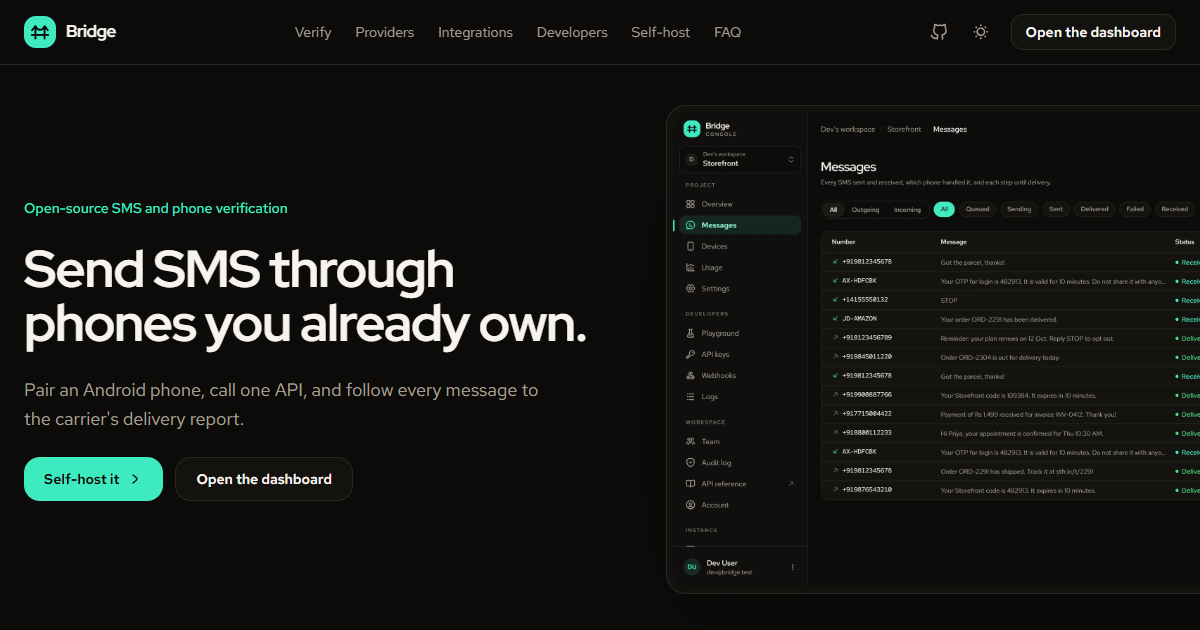
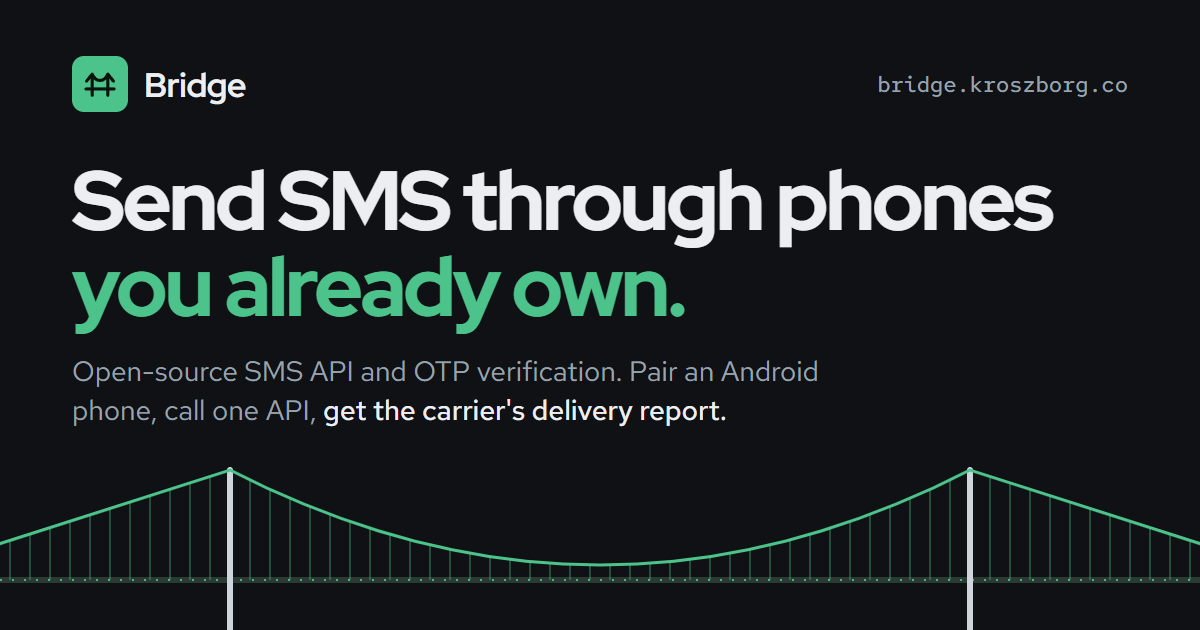
Link previews: new og image, per-page tags, dashboard previews
The preview image showed the old theme. Privacy and terms now preview as
themselves instead of the home page, docs canonicals carry the trailing
slash the static export serves, and the dashboard gets preview tags
(it reads BRIDGE_DASHBOARD_URL at runtime for absolute URLs). The favicon
and a new Apple touch icon use the current green.

diff --git a/apps/dashboard/src/app/layout.tsx b/apps/dashboard/src/app/layout.tsx
@@ -1,5 +1,6 @@
 import type { Metadata, Viewport } from 'next';
 import { Red_Hat_Display, Red_Hat_Mono, Red_Hat_Text } from 'next/font/google';
+import { connection } from 'next/server';
 import './globals.css';
 import { Providers } from '@/components/providers';
 import { Toaster } from '@/components/ui/sonner';
@@ -9,11 +10,33 @@ const display = Red_Hat_Display({ subsets: ['latin'], variable: '--font-redhat-d
 const text = Red_Hat_Text({ subsets: ['latin'], variable: '--font-redhat-text' });
 const mono = Red_Hat_Mono({ subsets: ['latin'], variable: '--font-redhat-mono' });
 
-export const metadata: Metadata = {
-  title: { default: 'Bridge', template: '%s · Bridge' },
-  description: 'Open-source infrastructure for SMS and phone verification.',
-  robots: { index: false, follow: false },
-};
+const description = 'Open-source infrastructure for SMS and phone verification.';
+
+// Link previews need absolute URLs, and the address is only known when the server runs.
+export async function generateMetadata(): Promise<Metadata> {
+  await connection();
+  const base = (process.env.BRIDGE_DASHBOARD_URL ?? 'http://localhost:3000').replace(/\/$/, '');
+  const image = {
+    url: '/og.png',
+    width: 1200,
+    height: 630,
+    alt: 'Bridge: send SMS through phones you already own',
+  };
+  return {
+    metadataBase: new URL(base),
+    title: { default: 'Bridge', template: '%s · Bridge' },
+    description,
+    robots: { index: false, follow: false },
+    openGraph: {
+      type: 'website',
+      siteName: 'Bridge',
+      title: 'Bridge',
+      description,
+      images: [image],
+    },
+    twitter: { card: 'summary_large_image', title: 'Bridge', description, images: [image.url] },
+  };
+}
 
 export const viewport: Viewport = {
   themeColor: [

diff --git a/apps/web/src/app/layout.tsx b/apps/web/src/app/layout.tsx
@@ -1,7 +1,7 @@
 import type { Metadata, Viewport } from 'next';
 import { Red_Hat_Display, Red_Hat_Mono, Red_Hat_Text } from 'next/font/google';
 import { ThemeProvider } from '@/components/theme';
-import { MAKER, SITE, SITE_URL } from '@/lib/site';
+import { MAKER, OG_IMAGE, SITE, SITE_URL } from '@/lib/site';
 import './globals.css';
 
 const display = Red_Hat_Display({ subsets: ['latin'], variable: '--font-redhat-display' });
@@ -34,23 +34,16 @@ export const metadata: Metadata = {
     siteName: SITE.name,
     title: SITE.title,
     description:
-      'Send SMS and one-time codes through Android phones you own, with delivery reports and signed webhooks. Open source and self-hosted.',
-    images: [
-      {
-        url: '/og.png',
-        width: 1200,
-        height: 630,
-        alt: 'Bridge: send SMS through phones you already own',
-      },
-    ],
+      'Send SMS and one-time codes through Android phones you own, with delivery reports and signed webhooks. Open source, hosted or self-hosted.',
+    images: [OG_IMAGE],
   },
   twitter: {
     card: 'summary_large_image',
     creator: MAKER.xHandle,
     title: SITE.title,
     description:
-      'Send SMS and one-time codes through Android phones you own. Open source and self-hosted.',
-    images: ['/og.png'],
+      'Send SMS and one-time codes through Android phones you own. Open source, hosted or self-hosted.',
+    images: [OG_IMAGE.url],
   },
   robots: { index: true, follow: true },
 };

diff --git a/apps/web/src/app/docs/[[...slug]]/page.tsx b/apps/web/src/app/docs/[[...slug]]/page.tsx
@@ -3,7 +3,8 @@ import type { Metadata } from 'next';
 import { notFound } from 'next/navigation';
 import { IntegrationsGrid } from '@/components/docs/integrations-grid';
 import { getMDXComponents } from '@/components/docs/mdx';
-import { MAKER, repoFile, SITE } from '@/lib/site';
+import { docsUrl } from '@/lib/docs/paths';
+import { pageMeta, repoFile } from '@/lib/site';
 import { source } from '@/lib/source';
 
 type Props = { params: Promise<{ slug?: string[] }> };
@@ -38,25 +39,5 @@ export async function generateMetadata({ params }: Props): Promise<Metadata> {
 
   const title =
     page.slugs.length === 0 ? 'Bridge documentation' : `${page.data.title} · Bridge docs`;
-  const { description } = page.data;
-  return {
-    title,
-    description,
-    alternates: { canonical: page.url },
-    openGraph: {
-      type: 'article',
-      url: page.url,
-      siteName: SITE.name,
-      title,
-      description,
-      images: [{ url: '/og.png', width: 1200, height: 630, alt: SITE.title }],
-    },
-    twitter: {
-      card: 'summary_large_image',
-      creator: MAKER.xHandle,
-      title,
-      description,
-      images: ['/og.png'],
-    },
-  };
+  return pageMeta({ title, description: page.data.description, path: docsUrl(page.slugs) });
 }

diff --git a/apps/web/src/lib/site.ts b/apps/web/src/lib/site.ts
@@ -1,3 +1,5 @@
+import type { Metadata } from 'next';
+
 /** Where the console lives. Set NEXT_PUBLIC_DASHBOARD_URL when you deploy. */
 export const DASHBOARD_URL = (
   process.env.NEXT_PUBLIC_DASHBOARD_URL ?? 'http://localhost:3000'
@@ -76,3 +78,38 @@ export const MAKER = {
     },
   ],
 } as const;
+
+/** The link preview image, apps/web/public/og.png. */
+export const OG_IMAGE = {
+  url: '/og.png',
+  width: 1200,
+  height: 630,
+  alt: 'Bridge: send SMS through phones you already own',
+} as const;
+
+/** Title, description and link preview tags for a page other than the home page. */
+export function pageMeta({
+  title,
+  description,
+  path,
+  type = 'article',
+}: {
+  title: string;
+  description?: string;
+  path: string;
+  type?: 'article' | 'website';
+}): Metadata {
+  return {
+    title,
+    description,
+    alternates: { canonical: path },
+    openGraph: { type, url: path, siteName: SITE.name, title, description, images: [OG_IMAGE] },
+    twitter: {
+      card: 'summary_large_image',
+      creator: MAKER.xHandle,
+      title,
+      description,
+      images: [OG_IMAGE.url],
+    },
+  };
+}

diff --git a/apps/web/src/app/privacy/page.tsx b/apps/web/src/app/privacy/page.tsx
@@ -1,12 +1,12 @@
 import type { Metadata } from 'next';
 import { LegalPage } from '@/components/legal';
-import { CONTACT_EMAIL, DASHBOARD_URL, REPO_URL } from '@/lib/site';
+import { CONTACT_EMAIL, DASHBOARD_URL, pageMeta, REPO_URL } from '@/lib/site';
 
-export const metadata: Metadata = {
+export const metadata: Metadata = pageMeta({
   title: 'Privacy Policy · Bridge',
   description: 'What hosted Bridge and the Bridge Android app collect, why, and for how long.',
-  alternates: { canonical: '/privacy/' },
-};
+  path: '/privacy/',
+});
 
 export default function PrivacyPage() {
   return (

diff --git a/apps/web/src/app/terms/page.tsx b/apps/web/src/app/terms/page.tsx
@@ -1,12 +1,12 @@
 import type { Metadata } from 'next';
 import { LegalPage } from '@/components/legal';
-import { CONTACT_EMAIL, MAKER, REPO_URL } from '@/lib/site';
+import { CONTACT_EMAIL, MAKER, pageMeta, REPO_URL } from '@/lib/site';
 
-export const metadata: Metadata = {
+export const metadata: Metadata = pageMeta({
   title: 'Terms of Service · Bridge',
   description: 'The terms for using hosted Bridge.',
-  alternates: { canonical: '/terms/' },
-};
+  path: '/terms/',
+});
 
 export default function TermsPage() {
   return (
